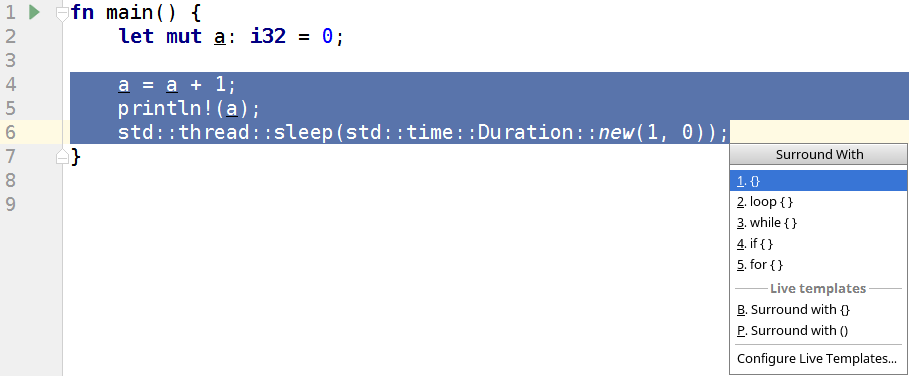
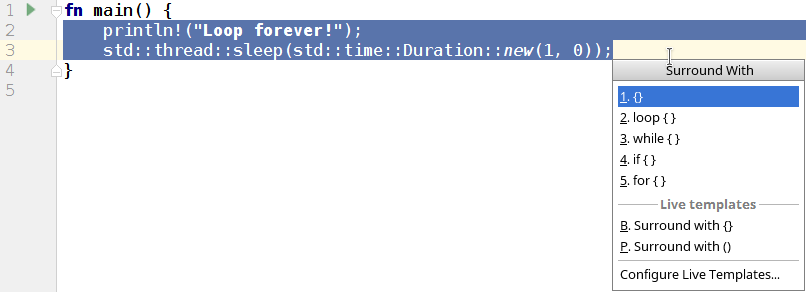
e1

diff --git a/intellijRust.tex b/intellijRust.tex
@@ -196,7 +196,7 @@
 \end{frame}
 
 \begin{frame}
-	\frametitle{Intentions} 
+	\frametitle{Surround with...} 
 	\includegraphics[scale = 0.4]{loop_before.png}\\
 	{
 		\centering $\Downarrow$ \\
